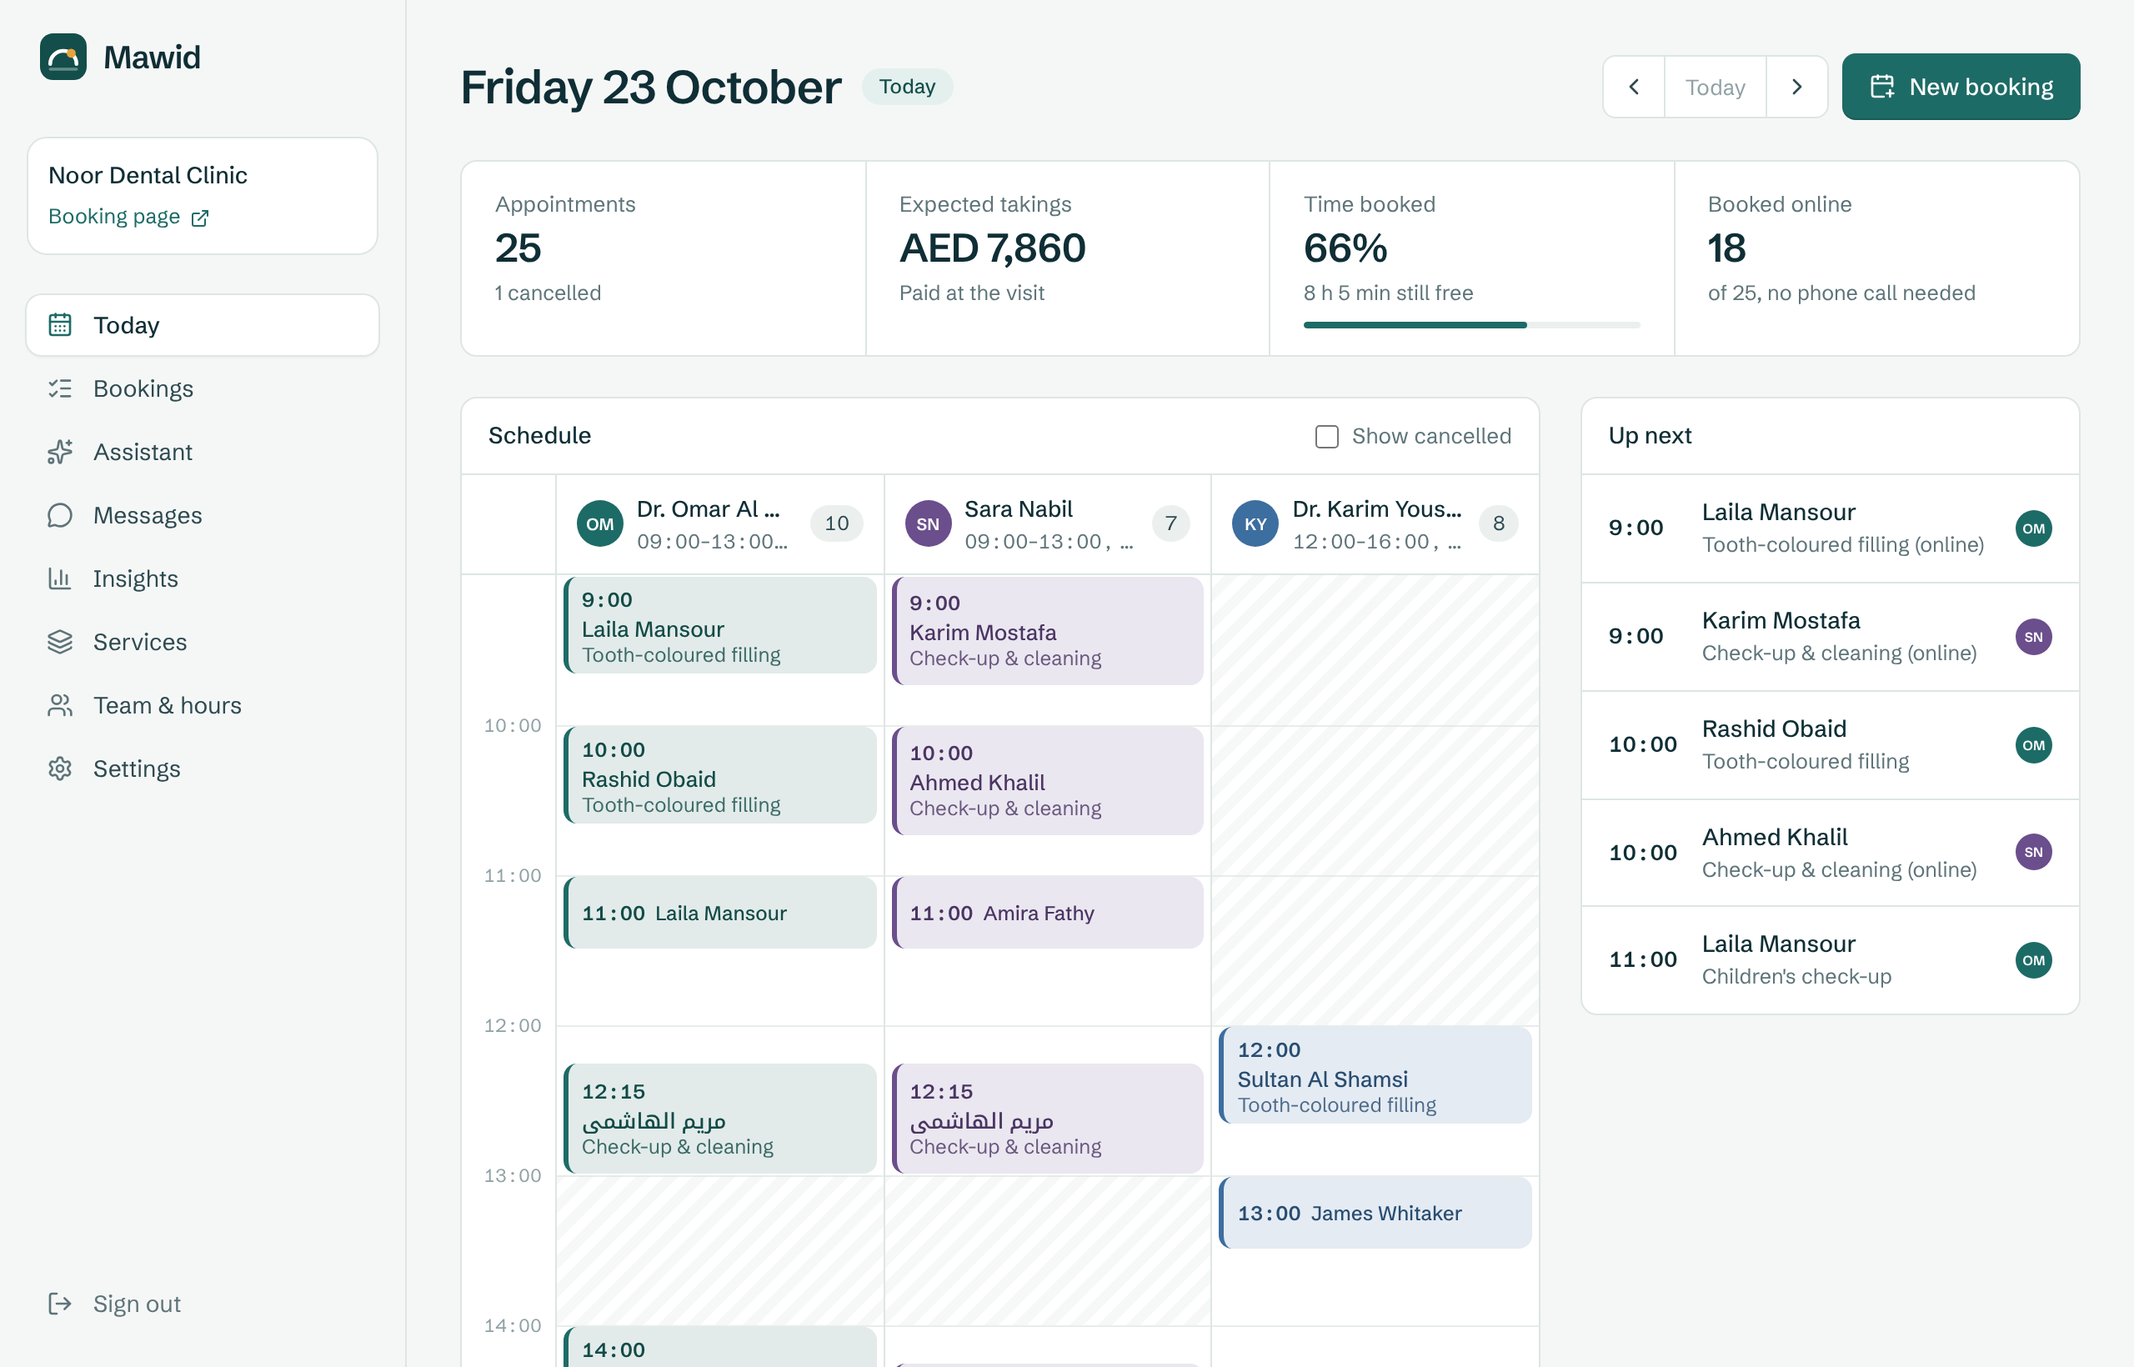
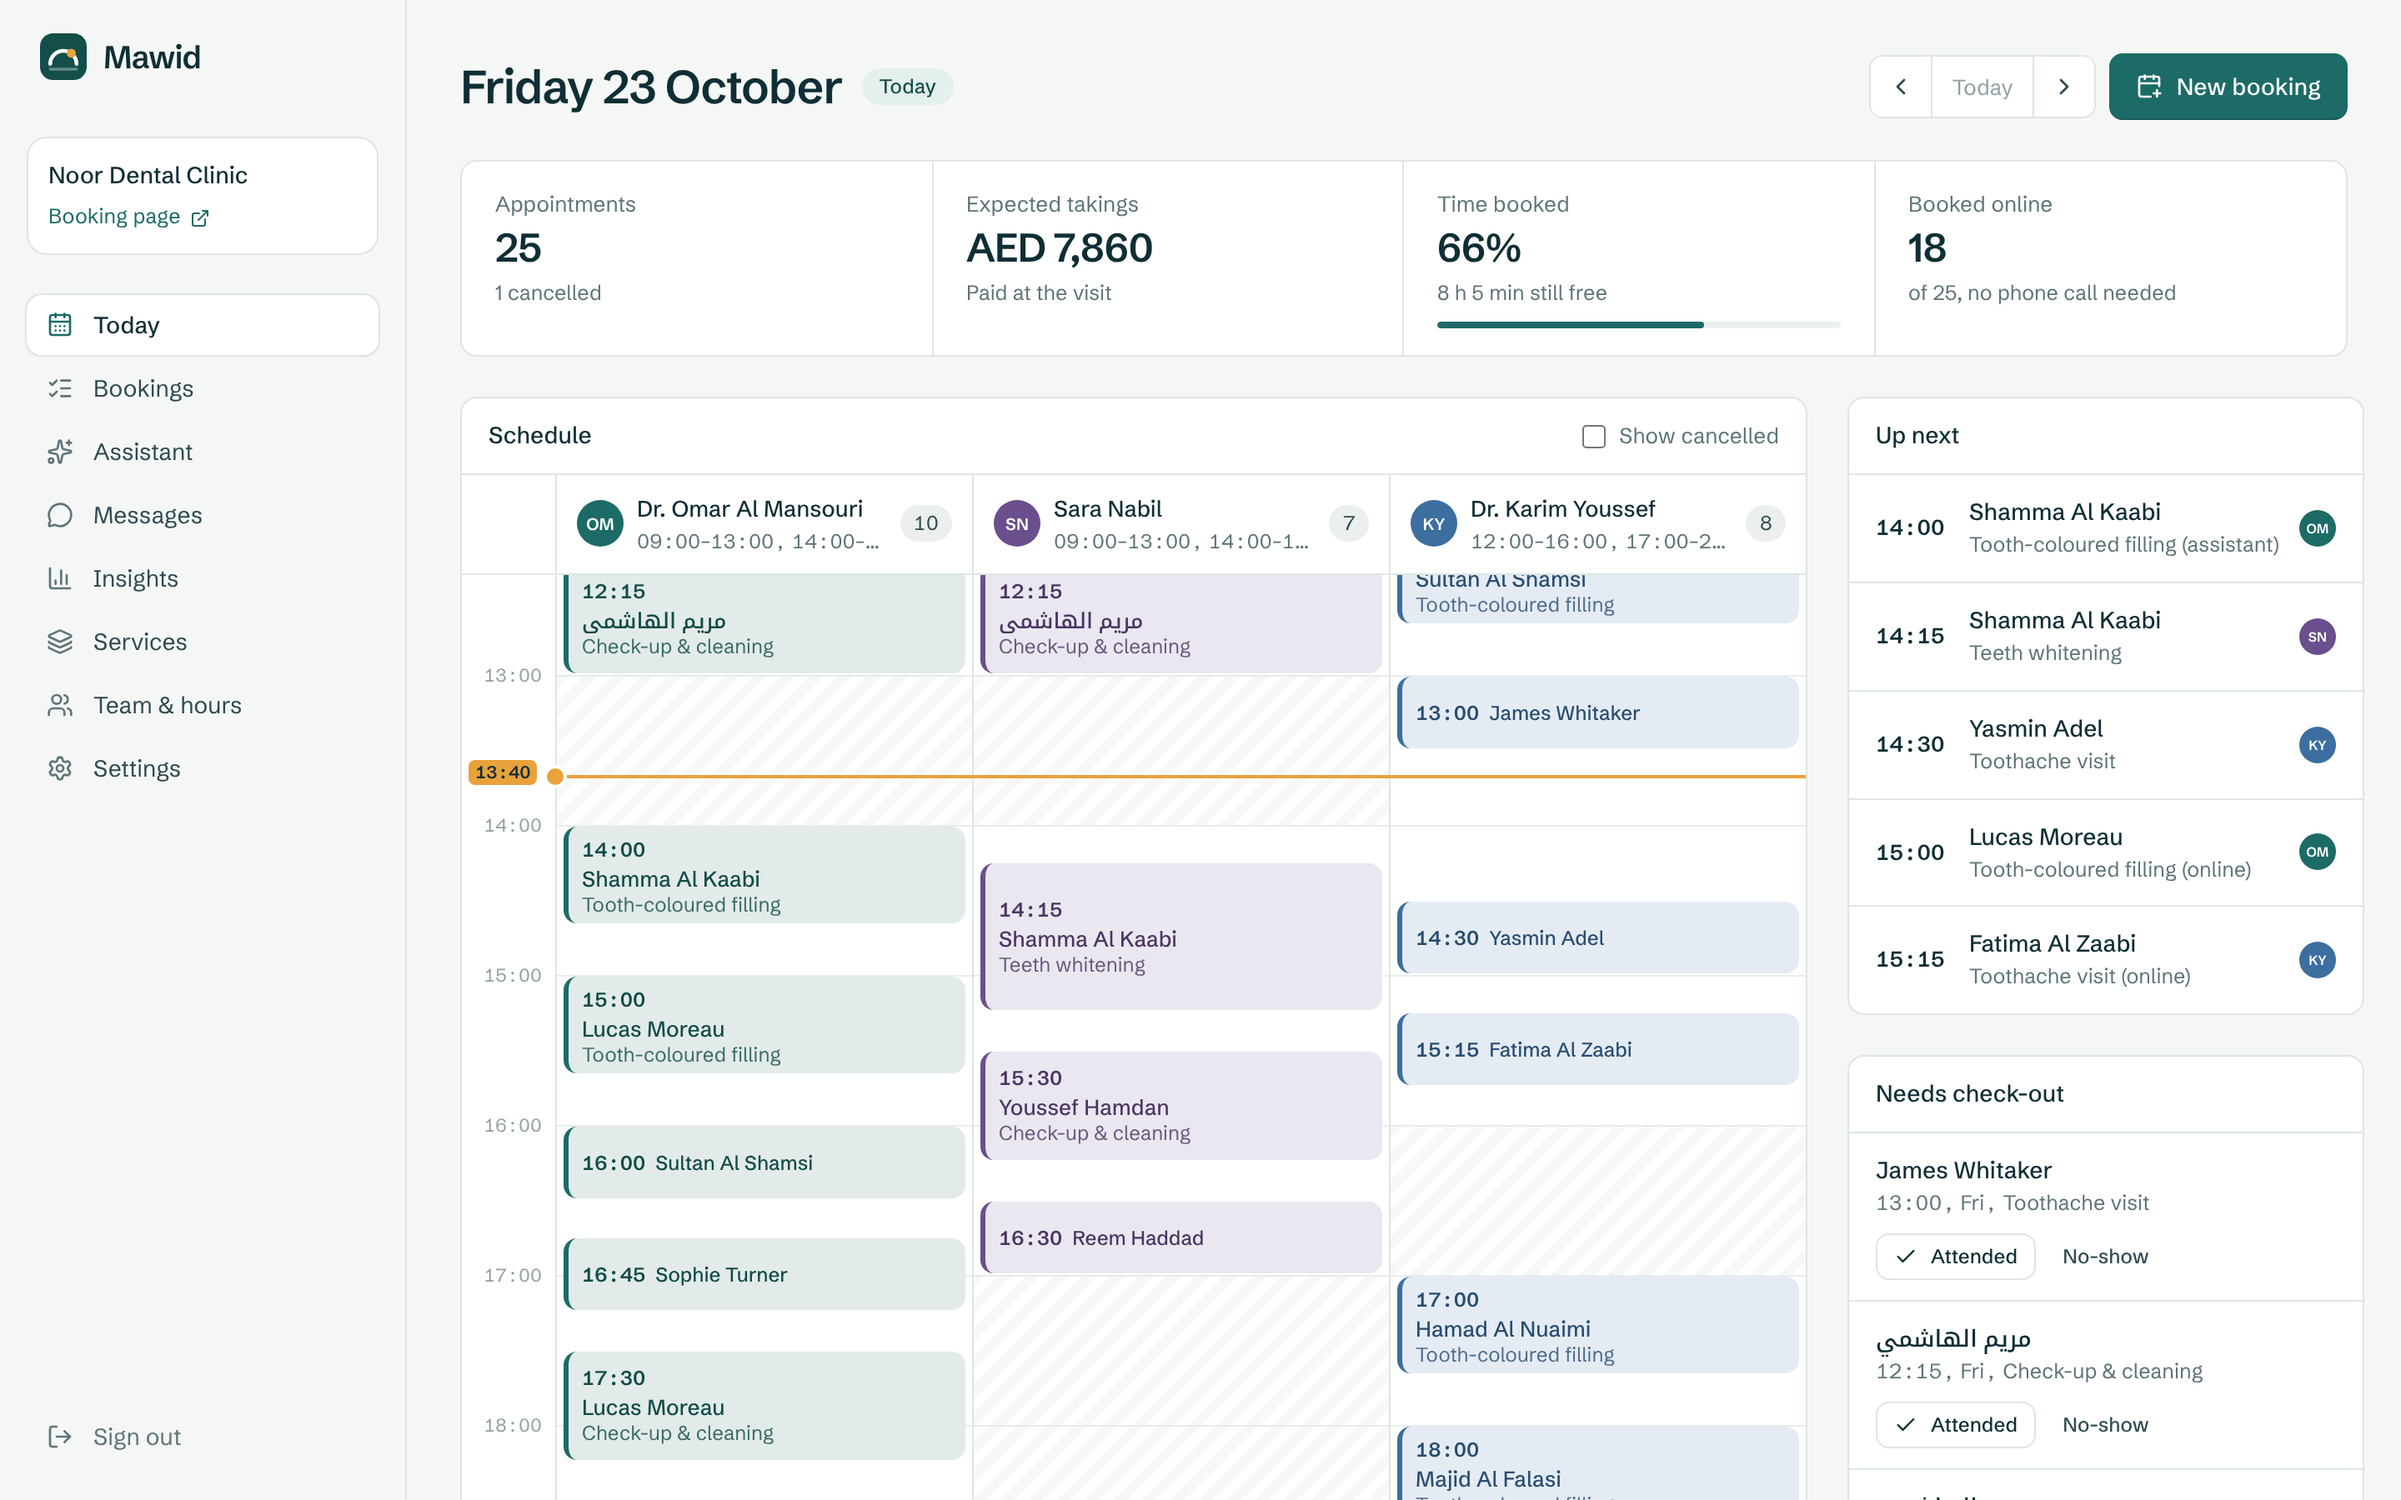
Sharper Today screenshot on the landing page
Recaptured at 2x (2880x1800) with the now-line in view, served as the
original PNG instead of a recompressed copy so the UI text stays crisp.

diff --git a/src/app/dashboard/page.tsx b/src/app/dashboard/page.tsx
@@ -6,7 +6,7 @@ import { requireBusiness } from "@/server/auth";
 import { getCatalog } from "@/server/catalog";
 import { getDaySchedule, getNeedsCheckout } from "@/server/dashboard";
 import { kickSweep } from "@/server/jobs";
-import { isDateStr, localDate } from "@/lib/time";
+import { isDateStr, localDate, zonedToUtc } from "@/lib/time";
 
 export const metadata: Metadata = { title: "Today" };
 
@@ -22,8 +22,14 @@ async function Today({ searchParams }: PageProps<"/dashboard">) {
   await connection();
   const sp = await searchParams;
   const { db, business } = await requireBusiness();
-  const now = new Date();
+  let now = new Date();
   const today = localDate(now, business.timezone);
+  // Development only: ?at=HH:MM renders the day as it looks at that local time
+  // (used to capture product shots with the now-line in working hours).
+  if (process.env.NODE_ENV !== "production" && typeof sp.at === "string" && /^\d{2}:\d{2}$/.test(sp.at)) {
+    const [h, m] = sp.at.split(":").map(Number);
+    now = zonedToUtc(today, h * 60 + m, business.timezone);
+  }
   const date = isDateStr(sp.date) ? sp.date : today;
   const catalog = await getCatalog(db, business);
   const [schedule, checkout] = await Promise.all([

diff --git a/src/app/page.tsx b/src/app/page.tsx
@@ -185,9 +185,9 @@ export default function Home() {
             <Image
               src="/product/dashboard-today.png"
               alt="The Today screen: a timeline of appointments for three team members, with day totals above."
-              width={2560}
-              height={1640}
-              sizes="(min-width: 1280px) 1200px, 100vw"
+              width={2880}
+              height={1800}
+              unoptimized
               className="h-auto w-full"
             />
           </div>
